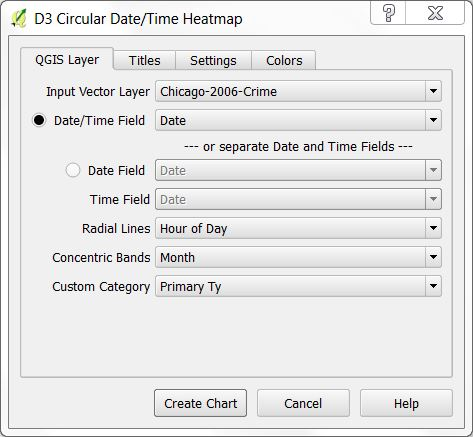
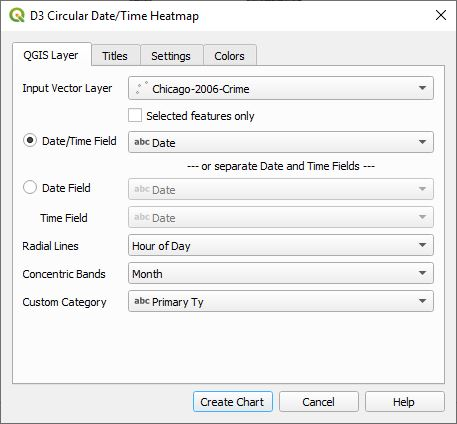
Add checkbox to use selected features only.

Changed region(s): [[0.0, 0.0, 1.0, 1.0], [0.8884, 0.0, 1.0, 0.0613], [0.7659, 0.0, 0.8578, 0.0613]]

diff --git a/index.html b/index.html
@@ -1,0 +1,126 @@
+<head>
+<style>
+body {
+    font:13.34px helvetica,arial,freesans,clean,sans-serif;
+    color:black;
+    line-height:1.4em;
+    background-color: #F8F8F8;
+    padding: 0.7em;
+}
+pre {
+    margin:1em 0;
+    font-size:12px;
+    background-color:#eee;
+    border:1px solid #ddd;
+    padding:5px;
+    line-height:1.5em;
+    color:#444;
+    overflow:auto;
+    -webkit-box-shadow:rgba(0,0,0,0.07) 0 1px 2px inset;
+    -webkit-border-radius:3px;
+    -moz-border-radius:3px;border-radius:3px;
+}
+pre code {
+    padding:0;
+    font-size:12px;
+    background-color:#eee;
+    border:none;
+}
+code {
+    font-size:12px;
+    background-color:#f8f8ff;
+    color:#444;
+    padding:0 .2em;
+    border:1px solid #dedede;
+}
+</style>
+</head>
+<body>
+<h1>QGIS D3 Date and Time Heatmap</h1>
+<p>This plugin creates a D3 circular histogram heatmap using date, time, and custom categories in the data. An optional legend can be included. </p>
+<p>The plugin works by counting the number of date/time/category events using two axis and displays the results as a circular heatmap. It allows you to analyze the temporal distribution of data and how much of it exists across time, based on two frequencies.</p>
+<h2>QGIS Layer Tab</h2>
+<p>This tab is for choosing the vector layer that will be used for generating the heatmap chart. Additionally, date and time fields are selected. A field representing a category can be specified and the axis of the resulting chart is configured.</p>
+<div style="text-align:center"><img src="help/d3datavis.jpg" alt="Circular Heatmap"></div>
+
+<ul>
+<li><strong>Input Vector Layer</strong> - This is a list of all the vector layers in the QGIS project. Select the one that you want to work with.</li>
+<li><strong>Date/Time Field</strong> - By checking the radio button next to this filed you can specify a field that contains a date/time column. This can either be a QDateTime column or a string representing a date and time. Date/time strings are parsed using the Python <strong>dateutil</strong> <a href="http://dateutil.readthedocs.io/en/stable/parser.html"><code>dateutil.parser.parse</code></a> parser. The format of the string must match one of the supported formats used by <code>dateutil</code>.</li>
+<li><strong>Date Field</strong> - If the vector layer has separate columns for Date and Time then select this radio button and then select a field that contains a date.</li>
+<li><strong>Time Field</strong> - This is enabled by checking the radio button next to the <strong>Date Field</strong>. Here you can choose a field that contains time.</li>
+<li><strong>Radial Lines</strong> and <strong>Concentric Bands</strong> represent one of the following for their respective axis:<ul>
+<li>Year</li>
+<li>Month</li>
+<li>Day of Month</li>
+<li>Day of Week</li>
+<li>Hour of Day</li>
+<li>Custom Category Field - Select this if you want to use one of the columns as a category along one of the axis. </li>
+</ul>
+</li>
+<li><strong>Custom Category</strong> specifies one of the columns that represents a category that can be selected for the axis. Both <strong>Radial Lines</strong> and <strong>Concentric Bands</strong> can select this field. If there are too many unique values in the category column, then an error message will be generated. You can limit the number unique category values by setting a <em>Filter</em> on the layer. See the example below.</li>
+</ul>
+<p>Note that it is not necessary to have both date and time information. In this case, select either the radial box representing date and time in the same column or separate date and time columns.</p>
+<h2>Titles Tab</h2>
+<p>The chart title, legend title, and the mouse over prefix can be configured on this tab.</p>
+<div style="text-align:center"><img src="help/titles.jpg" alt="Titles Tab"></div>
+
+<ul>
+<li><strong>Chart Titles</strong> - This text will be displayed as a header at the top of the page.</li>
+<li><strong>Legend Title</strong> - If a legend is displayed, this is the text that will be displayed above it.</li>
+<li><strong>Mouse Over Prefix</strong> - When <strong><em>Show mouse over histogram value</em></strong> is selected, whenever the mouse is over a part of the chart, the value of the pie segment will be displayed. This is the prefix that accompanies the pie segment value.</li>
+<li><strong>Show Legend</strong> - Check this box to display the legend.</li>
+<li><strong>Show mouse over histogram value</strong> - Check this to display the histogram value when the mouse is over a wedge of the heat map chart.</li>
+</ul>
+<h2>Settings Tab</h2>
+<p>Chart and legend settings for the heat map can be configured on this tab.</p>
+<div style="text-align:center"><img src="help/settings.jpg" alt="Settings Tab"></div>
+
+<p><strong>Chart Settings</strong></p>
+<ul>
+<li><strong>Inner radius</strong> - The radius in pixels where the first band of the heatmap starts.</li>
+<li><strong>Band height</strong> - Height in pixels of each band.</li>
+<li><strong>Show radial labels</strong> - When checked, the radial labels will be displayed.</li>
+<li><strong>Show band labels</strong> - When checked, the labels for each band will be displayed.</li>
+</ul>
+<p><strong>Legend Settings</strong></p>
+<p>The legend will be displayed to the right of the chart and these are its settings.</p>
+<ul>
+<li><strong>Maximum Legend Height</strong> - Specifies the maximum height of the legend in pixels.</li>
+<li><strong>Legend Width</strong> - Specifies the width of the legend bar in pixels.</li>
+<li><strong>Legend Box Width</strong> - Specifies the overall D3 legend container width. This must be large enough to include the legend bar and labels.</li>
+</ul>
+<h2>Colors Tab</h2>
+<p>These are settings for fine control over the heatmap color ramp and <strong>No Data Color</strong></p>
+<div style="text-align:center"><img src="help/colormap.jpg" alt="Colors Tab"></div>
+
+<h1>Suggestions</h1>
+<p>Please send any suggestions to adenaculture@gmail.com or submit a ticket to the
+<a href="https://github.com/NationalSecurityAgency/qgis-d3datavis-plugin/issues">D3DataVis Issue tracker</a></p>
+<h1>Tutorial Examples</h1>
+<p>These examples make use of the <a href="https://data.cityofchicago.org/Public-Safety/Crimes-2001-to-present/ijzp-q8t2">2006 Chicago crime data</a>. In 2006 there were 367,968 crime incidents. That is a lot of crime during a year in just one city. Although this author is not trained in crime, some basic conclusions can be obtained by looking at the crime incidents based on the Month of the Year, Time of the Day, and Day of the Week. Here are the examples.</p>
+<h3>Month of the year vs. day of the week.</h3>
+<div style="text-align:center"><img src="help/month-dow.jpg" alt="Month vs. day of the week"></div>
+
+<p>By looking at this graph one can make some observations. The least amount of crime occurs during the months of January, February and March. This is probably due to the cold. If that is the case, why does December have a high crime rate? That is probably because of the holiday season. </p>
+<h3>Hour of the day vs. day of the week.</h3>
+<div style="text-align:center"><img src="help/hour-dow.jpg" alt="Hour of the day vs. day of the week"></div>
+
+<p>In this graph it appears that crime increases from 6pm to 11pm. The worst crime occurs from midnight to 1am. More difficult jobs must be taking place on the weekend where there is an increase of activity from 1am to 3am. During the day from Noon to 1pm there is also an increase of crime.</p>
+<h3>Hour of the day vs. month of the year</h3>
+<div style="text-align:center"><img src="help/hour-month.jpg" alt="Hour of the day vs month of the year"></div>
+
+<p>Here one can see a similar pattern. Crime is less during January, February, and March. Crime increases starting from about 6pm to 11pm and then from Midnight to 1am plans are executed. This graph also shows the increased crime from Noon to 1pm.</p>
+<h3>Hour of the day vs custom crime category</h3>
+<p>In this example the input data has been filtered by setting a QGIS filter for only certain types of crime. For this Example, right-mouse click on the Chicago crime layer in QGIS and select <strong>Filter</strong> then use the following filter:</p>
+<pre><code>"Primary Ty" IN ('THEFT','ROBBERY','OTHER OFFENSE','NARCOTICS',
+    'MOTOR VEHICLE THEFT','DECEPTIVE PRACTICE','CRIMINAL TRESPASS',
+    'BURGLARY','BATTERY','ASSAULT')
+</code></pre>
+<p>Set the following to:</p>
+<ul>
+<li><strong>Radial Lines</strong> - <em>Hour of Day</em></li>
+<li><strong>Concentric Bands</strong> - <em>Custom Category Field</em></li>
+<li><strong>Custom Category</strong> - <em>Primary Ty</em></li>
+</ul>
+<p>This shows the resulting chart that is created.</p>
+<div style="text-align:center"><img src="help/category.jpg" alt="Hour of the day vs custom crime category"></div></body>

diff --git a/heatmapDialog.py b/heatmapDialog.py
@@ -219,7 +219,10 @@ class HeatmapDialog(QDialog, FORM_CLASS):
             col2 = self.selectedTimeCol
         
         # Iterate through each feature and parse and process the date/time values
-        iter = self.selectedLayer.getFeatures(request)
+        if self.selectedOnlyCheckBox.isChecked():
+            iter = self.selectedLayer.getSelectedFeatures(request)
+        else:
+            iter = self.selectedLayer.getFeatures(request)
         for f in iter:
             try:
                 if self.selectedRadialUnit == 5:
